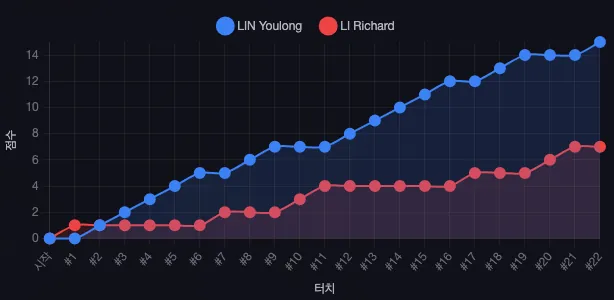
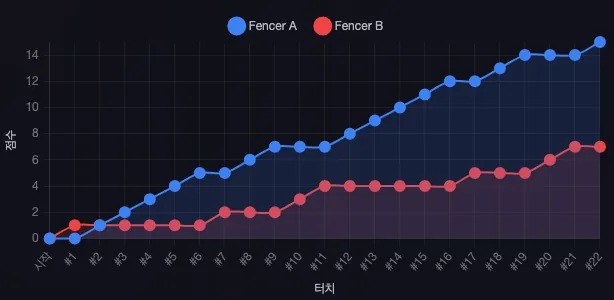
Anonymise the analytics teaser charts
The foil chart legend carried two real junior fencers' names on a
commercial page. Regenerated it with the datasets relabelled Fencer A and
Fencer B, and dropped the names from the alt text. The sabre report was
already anonymised at the source.

Image URLs get a version query so the CDN does not keep serving the named
copy under the same path.

This covers the data site only. The analytics service still re-hosts the
source videos publicly, which is the larger exposure and is out of scope
here.

Changed region(s): [[0.3404, 0.03, 0.6498, 0.12]]

diff --git a/services/data/templates/index.html b/services/data/templates/index.html
@@ -2628,8 +2628,8 @@
            차트 이미지에 최종 스코어와 터치 수가 그대로 보이므로, 캡션이 다른 경기의
            수치이면 바로 들통난다 (2026-08-06 실제로 사브르 카드에서 한 번 어긋났음). #}
         <figure class="fm-analytics-shot">
-            <img src="/static/images/analytics-preview/foil_chart.webp"
-                 alt="{{ _t('주니어 플뢰레 결승') }} LIN 15-7 LI {{ _t('스코어 타임라인 차트') }}"
+            <img src="/static/images/analytics-preview/foil_chart.webp?v=20260807a"
+                 alt="{{ _t('주니어 플뢰레 결승') }} 15-7 {{ _t('스코어 타임라인 차트') }}"
                  width="614" height="300" loading="lazy" decoding="async">
             <figcaption>
                 <span class="fm-analytics-shot__title">
@@ -2645,7 +2645,7 @@
         </figure>
 
         <figure class="fm-analytics-shot">
-            <img src="/static/images/analytics-preview/sabre_chart.webp"
+            <img src="/static/images/analytics-preview/sabre_chart.webp?v=20260807a"
                  alt="{{ _t('주니어 사브르 본선') }} 10-15 {{ _t('스코어 타임라인 차트') }}"
                  width="614" height="300" loading="lazy" decoding="async">
             <figcaption>
